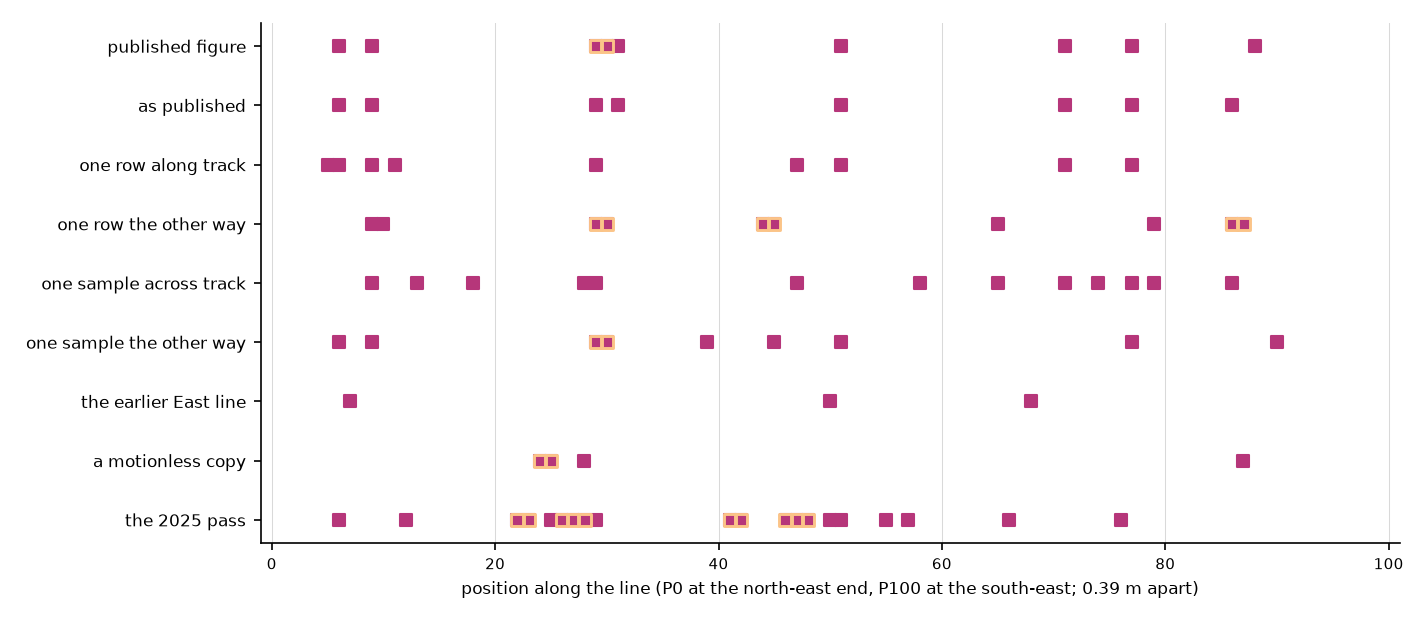
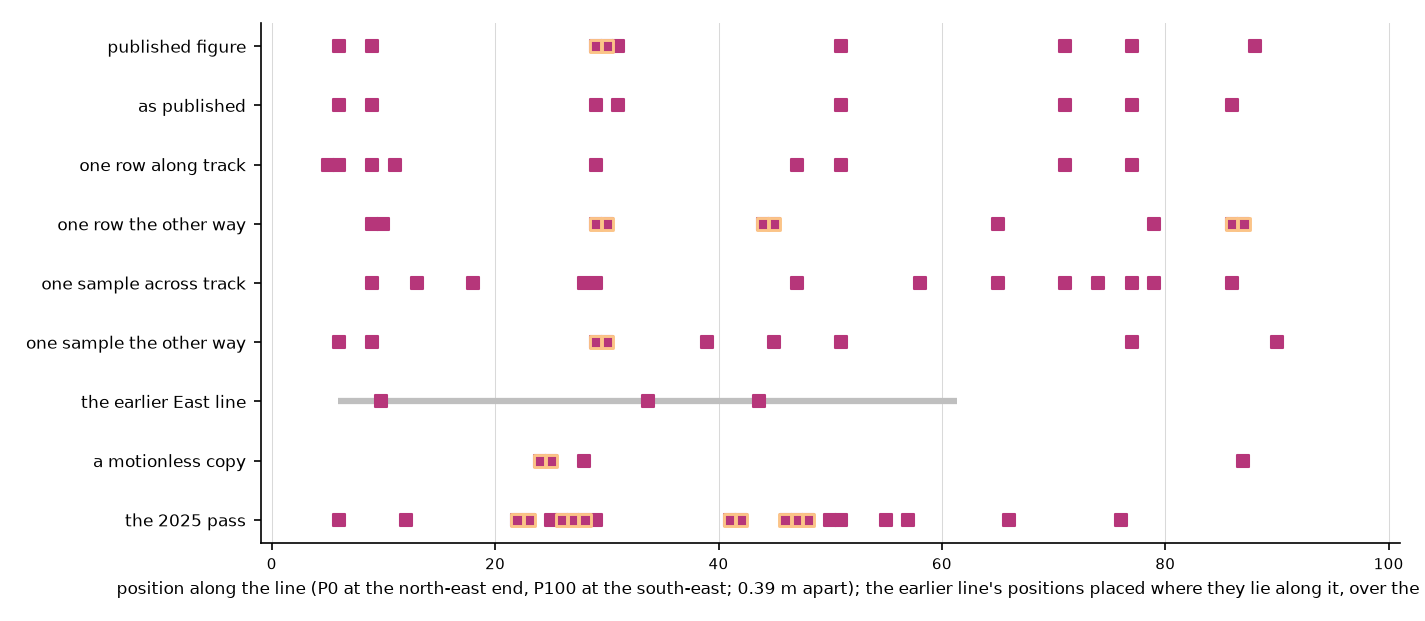
P2-39: a pixel's size read from the 2022 product (4.6 cm along track, 25.3 cm slant, 44 cm on the ground; the 15 cm was the 2025 product's, typed by hand), and the earlier line compared by place, not by index

diff --git a/sim/experiments/p2_39_sphinx_line.py b/sim/experiments/p2_39_sphinx_line.py
@@ -10,13 +10,20 @@ and the settings in the figure's title: W50, modes 1-10, b:a >= 0.10, Track 7, s
 1. Reproduced: the repository's v1.8 module, unchanged (its hash recorded), the line projected through the product's own
    RPC (both ends land within half a pixel of the pixels the KMZ states), the frozen profile with the title's settings.
    The positions that pass are compared with those in the published figure, read off its tick marks.
-2. Varied, each through the same code: the line nudged by one pixel along track (4.6 cm) and across it (one slant-range
-   sample, 15 cm), the author's earlier East line (2 to 15 m from the revised one, in the same KMZ), a motionless copy
-   of the image along the line (sarsim.looks.motionless_twin), and the same ground in the 2025 pass.
+2. Varied, each through the same code: the line nudged by one pixel along track and across it (one row, one
+   slant-range sample; their size on the ground read from the product), the author's earlier East line (in the same
+   KMZ, shorter, running beside part of the revised one), a motionless copy of the image along the line
+   (sarsim.looks.motionless_twin), and the same ground in the 2025 pass.
+
+Positions are compared by index where the line is the same (the nudges, the copy, the 2025 pass, which projects the same
+points) and by place for the earlier line: each of its positions is carried onto the revised line, and counts as shared
+when the revised line passes a position within one position spacing of it.
 
 A ground feature would stay where it is under a one-pixel nudge, show on the earlier line where the two run close, and
 not show in a motionless copy; a reading of the image's texture would move with the nudge, differ on the earlier line
 and draw columns in the copy too. The variants were first run while checking the reproduction; this run records them.
+The first record gave the across-track pixel as 15 cm (the 2025 product's slant-range sample, typed by hand) and
+compared the earlier line by index; both are corrected here.
 """
 import hashlib
 import importlib.util
@@ -59,6 +66,25 @@ def fetch(name):
 
 def sha256(path):
     return hashlib.sha256(Path(path).read_bytes()).hexdigest()
+
+
+def pixel_size(product):
+    """A pixel's size from the product's own metadata: along track on the ground, across it in slant range and on the
+    ground (slant over the sine of the incidence at the scene centre)."""
+    import h5py
+    with h5py.File(product, 'r') as f:
+        az, sr, inc = (float(f[k][()]) for k in ('azimuth_ground_spacing', 'slant_range_spacing', 'incidence_center'))
+    return {'along_track_m': az, 'slant_range_m': sr, 'ground_range_m': sr / np.sin(np.deg2rad(inc)), 'incidence_deg': inc}
+
+
+def local_xy(pts, lon0, lat0):
+    """Points [lon, lat, ...] as metres east and north of (lon0, lat0), with the WGS84 radii of curvature there."""
+    a, f = 6378137.0, 1 / 298.257223563
+    e2 = f * (2 - f)
+    phi = np.deg2rad(lat0)
+    w = 1 - e2 * np.sin(phi) ** 2
+    n, m = a / np.sqrt(w), a * (1 - e2) / w ** 1.5
+    return np.stack([n * np.cos(phi) * np.deg2rad(pts[:, 0] - lon0), m * np.deg2rad(pts[:, 1] - lat0)], -1)
 
 
 def kml_line(kml, label):
@@ -150,12 +176,36 @@ def main():
             results = dict(pool.map(run_variant, VARIANTS))
         ours = results['as published']
         pub1 = set(published[1])
+        pixel = pixel_size(P22)
+        # the lines on the ground: the revised one's spacing, and where the earlier one runs beside it
+        rev, ear = kml_line(kml, REVISED), kml_line(kml, EARLIER)
+        r_xy, e_xy = (local_xy(x, rev[:, 0].mean(), rev[:, 1].mean()) for x in (rev, ear))
+        length = float(np.linalg.norm(np.diff(r_xy, axis=0), axis=1).sum())
+        u = (r_xy[-1] - r_xy[0]) / np.linalg.norm(r_xy[-1] - r_xy[0])
+        on_revised = lambda q: float(np.dot(q - r_xy[0], u) / length * 100)        # a place as a revised-line index
+        offset = [float(u[0] * (q[1] - r_xy[0][1]) - u[1] * (q[0] - r_xy[0][0])) for q in e_xy]   # across it, + to its left
+        side = np.sign(np.mean(offset)) * np.array([-u[1], u[0]])
+        rose = ['north', 'north-east', 'east', 'south-east', 'south', 'south-west', 'west', 'north-west']
+        geometry = {'position_spacing_m': length / 100, 'line_length_m': length,
+                    'earlier_length_m': float(np.linalg.norm(np.diff(e_xy, axis=0), axis=1).sum()),
+                    'earlier_offset_m': [min(map(abs, offset)), max(map(abs, offset))],
+                    'earlier_side': rose[int((np.degrees(np.arctan2(side[0], side[1])) % 360 + 22.5) // 45) % 8],
+                    'earlier_span_on_revised': [on_revised(e_xy[0]), on_revised(e_xy[-1])]}
         rows = []
         for name, r in results.items():
             p1 = set(r['passed'][1])
-            rows.append({'variant': name, 'passed': r['passed'], 'runtime_s': r['runtime_s'],
-                         'shared_with_reproduction_p1': len(p1 & set(ours['passed'][1])),
-                         'shared_with_published_p1': len(p1 & pub1)})
+            row = {'variant': name, 'passed': r['passed'], 'runtime_s': r['runtime_s']}
+            if name == 'the earlier East line':
+                # by place: each passing position carried onto the revised line, shared within one position of ours
+                at = [on_revised(e_xy[k]) for k in r['passed'][1]]
+                lo, hi = sorted(geometry['earlier_span_on_revised'])
+                beside = [k for k in ours['passed'][1] if lo <= k <= hi]
+                row.update(at_revised_index=at, ours_beside=beside,
+                           shared_with_reproduction_p1=sum(any(abs(a - k) <= 1 for a in at) for k in beside),
+                           shared_with_published_p1=sum(any(abs(a - k) <= 1 for a in at) for k in pub1 if lo <= k <= hi))
+            else:
+                row.update(shared_with_reproduction_p1=len(p1 & set(ours['passed'][1])), shared_with_published_p1=len(p1 & pub1))
+            rows.append(row)
             print(f"  {name}: P1 {r['passed'][1]} P2 {r['passed'][2]} ({r['runtime_s']} s)", flush=True)
         # the strip figure: where columns stand along the line, published, reproduced and varied
         import matplotlib
@@ -168,13 +218,20 @@ def main():
         fig, ax = plt.subplots(figsize=(9.5, 0.36 * len(labels) + 0.9))
         for i, (lab, s) in enumerate(zip(labels, sets)):
             y = len(labels) - 1 - i
+            if lab == 'the earlier East line':          # drawn where it lies along the revised line, over the stretch it runs
+                ear_row = next(r for r in rows if r['variant'] == lab)
+                lo, hi = sorted(geometry['earlier_span_on_revised'])
+                ax.plot([lo, hi], [y, y], color='0.75', lw=3, solid_capstyle='butt', zorder=2)
+                ax.scatter(ear_row['at_revised_index'], [y] * len(s[1]), marker='s', s=34, color='#b6367a', zorder=3)
+                continue
             ax.scatter(s[1], [y] * len(s[1]), marker='s', s=34, color='#b6367a', zorder=3)
             if s.get(2):
                 ax.scatter(s[2], [y] * len(s[2]), marker='s', s=34, facecolor='none', edgecolor='#fbc488', lw=1.4, zorder=4)
         ax.set_yticks(range(len(labels)))
         ax.set_yticklabels(labels[::-1], fontsize=8)
         ax.set_xlim(-1, 101)
-        ax.set_xlabel('position along the line (P0 at the north-east end, P100 at the south-east; 0.39 m apart)', fontsize=8)
+        ax.set_xlabel(f"position along the line (P0 at the north-east end, P100 at the south-east; {geometry['position_spacing_m']:.2f} m "
+                      f"apart); the earlier line's positions placed where they lie along it, over the stretch it runs", fontsize=8)
         ax.grid(axis='x', color='0.85', lw=0.5)
         ax.tick_params(axis='x', labelsize=7)
         for sp in ('top', 'right'):
@@ -185,22 +242,31 @@ def main():
                             line_lon_lat_h=kml_line(kml, REVISED))
         match = sorted(pub1 & set(ours['passed'][1]))
         nudges = [r for r in rows if r['variant'].startswith('one ')]
+        ends_off = float(np.max(np.abs(np.array(ours['ends_col_row']) - np.array(stated))))
+        ear_row = next(r for r in rows if r['variant'] == 'the earlier East line')
+        g = geometry
         finding = (
             f"The published Sphinx tomogram reproduces with its author's code, unchanged, on its line and settings: the line's "
-            f"ends land within half a pixel of the pixels the KMZ states, and {len(match)} of the {len(ours['passed'][1])} "
+            f"ends land within {ends_off:.2f} pixel of the pixels the KMZ states, and {len(match)} of the {len(ours['passed'][1])} "
             f"positions our run passes at a support of one stand in the published figure at the same places "
             f"({len(pub1)} there: {sorted(pub1)}; ours {ours['passed'][1]}). The published figure's support-two pair "
             f"({published.get(2)}) appears in our runs when the line moves by one pixel. Moving the line one pixel along track "
-            f"(4.6 cm) or across it (15 cm) keeps {min(r['shared_with_reproduction_p1'] for r in nudges)} to "
+            f"({pixel['along_track_m'] * 100:.1f} cm) or across it ({pixel['slant_range_m'] * 100:.1f} cm in slant range, "
+            f"{pixel['ground_range_m'] * 100:.0f} cm on the ground) keeps {min(r['shared_with_reproduction_p1'] for r in nudges)} to "
             f"{max(r['shared_with_reproduction_p1'] for r in nudges)} of those {len(ours['passed'][1])} positions; the author's "
-            f"earlier East line, 2 to 15 m away, keeps {next(r for r in rows if r['variant'] == 'the earlier East line')['shared_with_reproduction_p1']}; "
+            f"earlier East line, {g['earlier_offset_m'][0]:.1f} to {g['earlier_offset_m'][1]:.1f} m to the {g['earlier_side']} "
+            f"along {g['earlier_length_m']:.0f} m of it, passes {len(ear_row['passed'][1])} positions, and "
+            f"{ear_row['shared_with_reproduction_p1']} of the {len(ear_row['ours_beside'])} ours passes beside it "
+            f"{'has' if ear_row['shared_with_reproduction_p1'] == 1 else 'have'} one of them within a position "
+            f"({g['position_spacing_m']:.2f} m); "
             f"a motionless copy of the image, with nothing moving, passes {len(results['a motionless copy']['passed'][1])} positions of "
             f"its own; the 2025 pass passes {len(results['the 2025 pass']['passed'][1])}, "
             f"{next(r for r in rows if r['variant'] == 'the 2025 pass')['shared_with_reproduction_p1']} of them shared. One line "
             f"takes {ours['runtime_s']:.0f} s here.")
         run.save({'published': {'positions': published, 'axis': axis, 'figure_sha256': png_sha, 'kmz_sha256': kmz_sha,
                                 'stated_ends_col_row': stated},
-                  'reproduction_ends_col_row': ours['ends_col_row'], 'rows': rows, 'matched_p1': match, 'finding': finding})
+                  'reproduction_ends_col_row': ours['ends_col_row'], 'ends_offset_px': ends_off, 'pixel': pixel,
+                  'geometry': geometry, 'rows': rows, 'matched_p1': match, 'finding': finding})
         print(finding)
 
 
